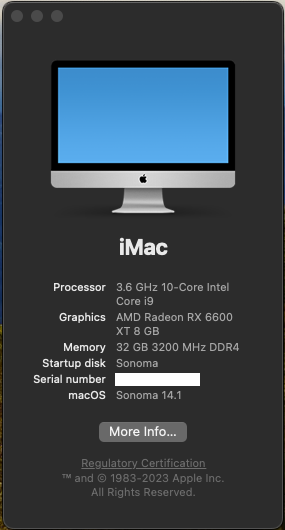
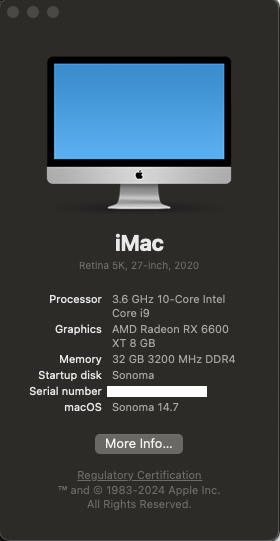
Update for Sonoma 14.7 notes

Changed region(s): [[0.1143, 0.0906, 0.8286, 0.966], [0.0, 0.0, 1.0, 1.0]]

diff --git a/README.md b/README.md
@@ -23,6 +23,7 @@ System about dialog:
 - [x] Audio
 - [x] MSI Mystic Light via OpenRGB on JRAINBOW1
 - [x] Intel I219-V Ethernet
+- [x] System updates
 
 # Kexts
 
@@ -51,6 +52,11 @@ Encountered a boot loop when OpenCore started to load the installer
 until I fixed the USB map.  I had done the USB map already, but had
 done something incorrect, so the installer didn't like it.
 
+Eventually noticed that I wasn't getting OS updates pushed.  This required adding `revpatch=sbvmm` to `boot-args` in `config.plist`.
+
+Installing updates after 14.3.1 required setting `SecureBootModel` to `Disabled` in `config.plist`.  This did not require a restart before starting the installer.  It did require a restart after the install completed and the setting was reverted back to `Default`.
+
+## BIOS Settings
 
 - OpenCore Version: 0.9.5
 - BIOS Version:  `E7C80IMS.1D0`
@@ -116,7 +122,7 @@ done something incorrect, so the installer didn't like it.
       - Disable VT-d
       - Disable SGX
 
-# USB Port Mapping
+## USB Port Mapping
 
 Info used for USBToolBox
 
